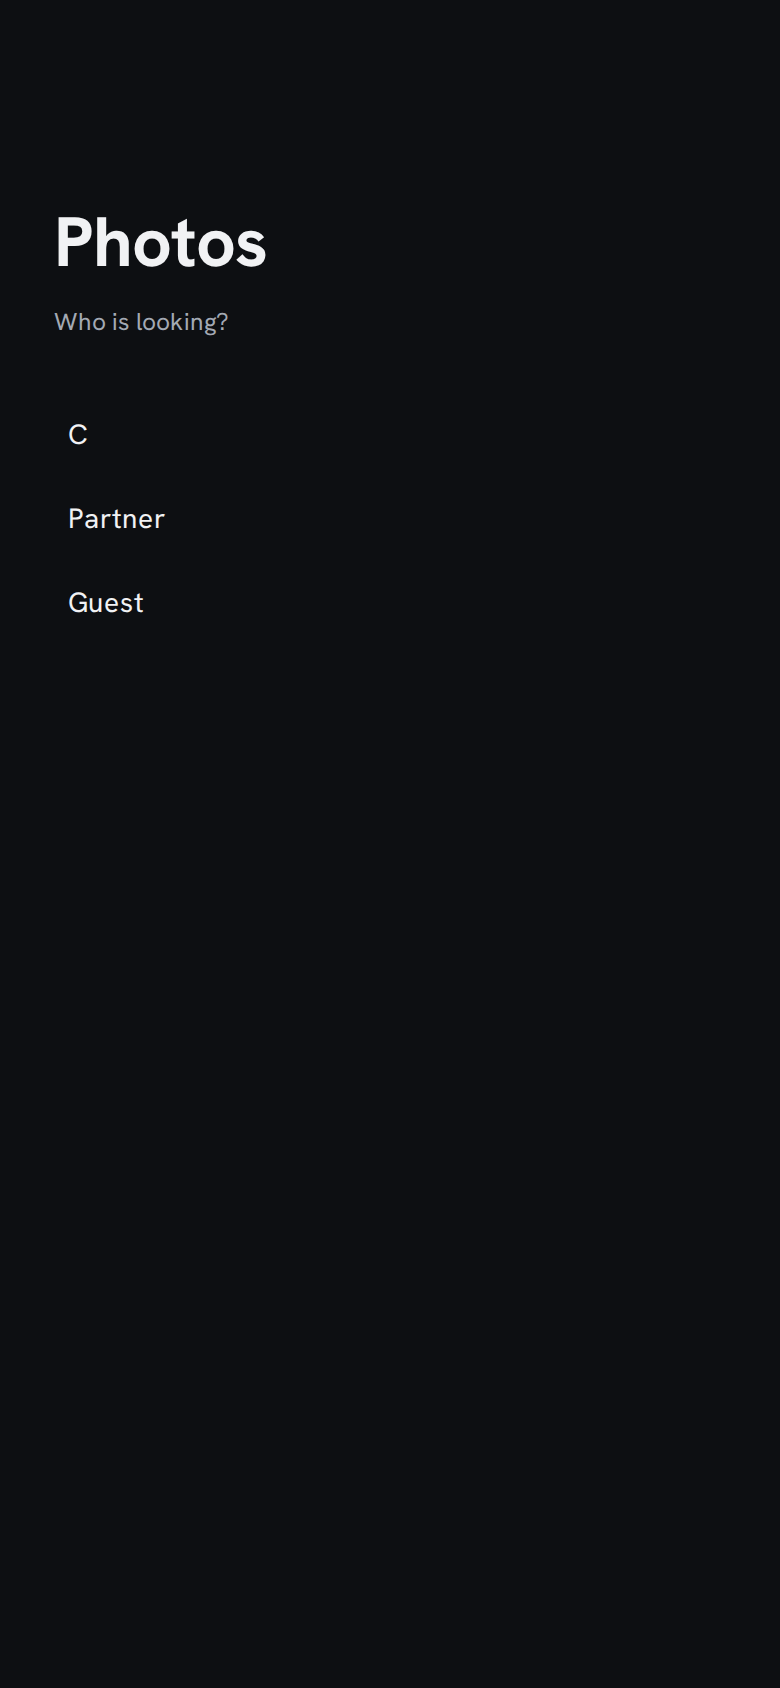
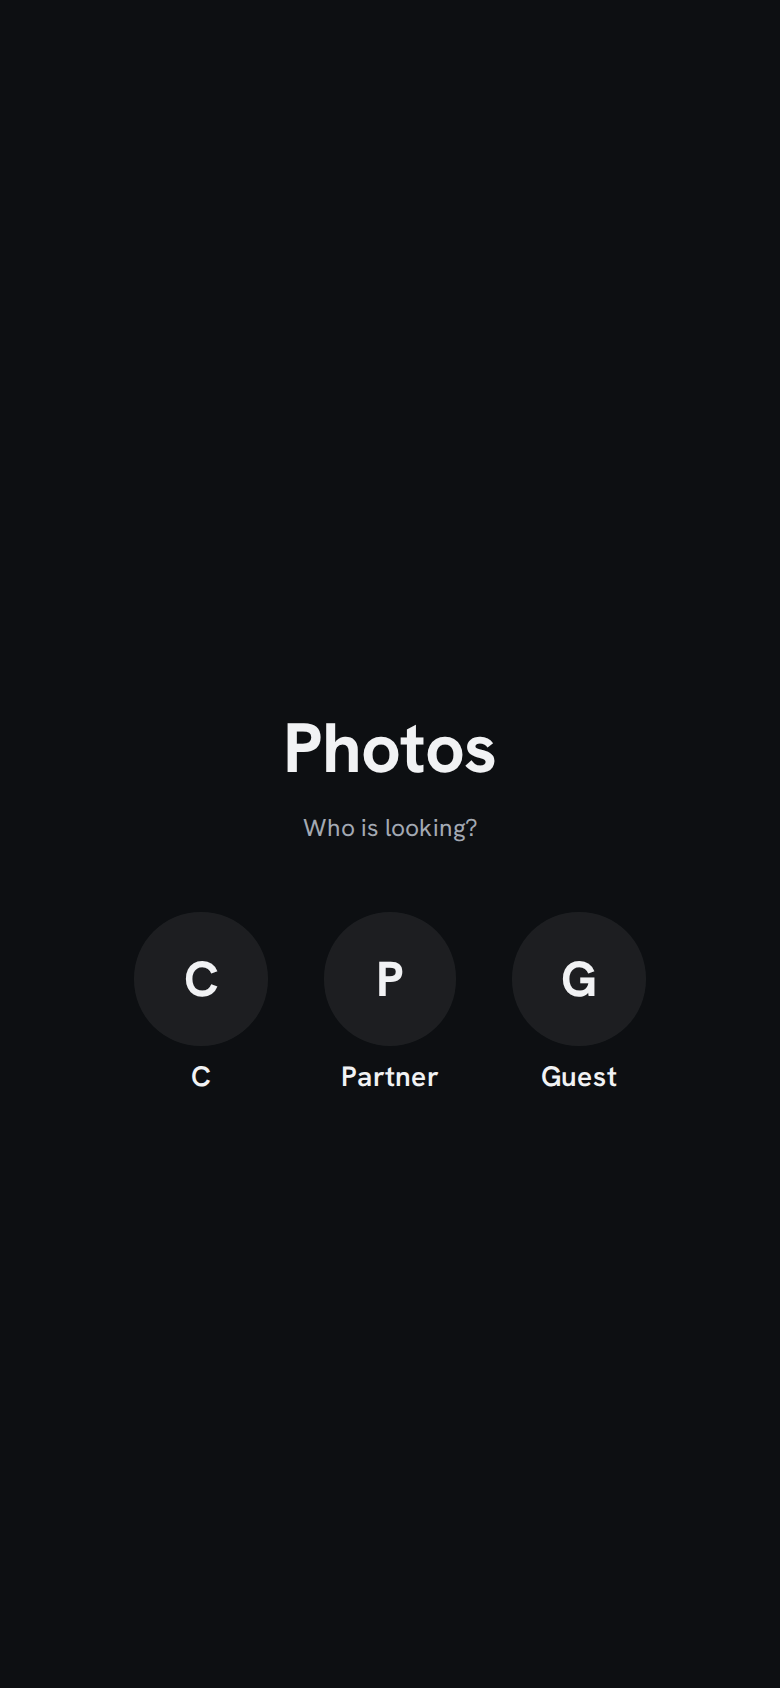
feat(ui): sign in with a number pad on a phone
The PIN was typed into a small text box. Now:

- The PIN shows as four dots. The field is still there behind them, for a
  keyboard, a screen reader and the tests; it is not drawn.
- A touch screen gets a pad of round keys (1 to 9, then 0 with Delete to its
  right) in the middle of the screen, and no system keyboard over it. The
  fourth digit signs in; Delete takes the last one back; a wrong PIN empties
  the dots, which shake once, and the reason is said as before.
- A laptop has no pad: it types, and the dots carry the focus ring.
- Who is looking: a round badge with each person's initial, the name under it.

Part of #10.

diff --git a/web/src/routes/login/+page.svelte b/web/src/routes/login/+page.svelte
@@ -2,9 +2,11 @@
 	import { goto } from '$app/navigation';
 	import { page } from '$app/state';
 	import { onMount } from 'svelte';
-	import { isPin, type AccountName } from '$lib/api';
+	import { PIN_LENGTH, isPin, type AccountName } from '$lib/api';
 	import { api, session } from '$lib/app.svelte';
+	import PinPad from '$lib/components/PinPad.svelte';
 	import { errorMessage } from '$lib/format';
+	import { initialOf } from '$lib/nav';
 	import { PIN_FIELD } from '$lib/pin';
 
 	let accounts = $state<AccountName[]>([]);
@@ -13,6 +15,8 @@
 	let error = $state('');
 	let busy = $state(false);
 	let field = $state<HTMLInputElement>();
+	/** A touch screen taps its PIN on the pad, so the system keyboard stays away; a laptop types. */
+	const touch = typeof matchMedia === 'function' && matchMedia('(pointer: coarse)').matches;
 
 	onMount(async () => {
 		const state = await api.setupState().catch(() => null);
@@ -25,8 +29,10 @@
 		}
 	});
 
+	// A laptop types straight away. A touch screen has the pad, and a focused field would
+	// only draw a focus ring round the dots.
 	$effect(() => {
-		if (chosen) field?.focus();
+		if (chosen && !touch) field?.focus();
 	});
 
 	function choose(account: AccountName | null) {
@@ -49,6 +55,12 @@
 		}
 	}
 
+	/** The PIN so far, from the pad or the keyboard: the fourth digit signs in. */
+	function enter(next: string) {
+		pin = next;
+		if (isPin(pin)) void signIn();
+	}
+
 	function submit(event: SubmitEvent) {
 		event.preventDefault();
 		void signIn();
@@ -57,38 +69,49 @@
 
 <svelte:head><title>Sign in · Photos</title></svelte:head>
 
-<h1>Photos</h1>
-{#if chosen}
-	<p class="quiet lede">Hello {chosen.display_name}. Type your PIN.</p>
-	<form onsubmit={submit}>
-		<label>
-			PIN
-			<input
-				{...PIN_FIELD}
-				bind:value={pin}
-				bind:this={field}
-				oninput={() => isPin(pin) && signIn()}
-				autocomplete="off"
-				required
-			/>
-		</label>
-		{#if error}<p role="alert">{error}</p>{/if}
-		<div class="actions">
-			<button class="primary" type="submit" disabled={busy || !isPin(pin)}>Sign in</button>
+<div class="door" class:touch>
+	<h1>Photos</h1>
+	{#if chosen}
+		<p class="quiet lede">Hello {chosen.display_name}. {touch ? 'Enter' : 'Type'} your PIN.</p>
+		<form onsubmit={submit}>
+			<!-- The field is still there for a keyboard and a screen reader; what shows is its dots. -->
+			<label class="code">
+				<span class="visually-hidden">PIN</span>
+				<input
+					class="visually-hidden"
+					{...PIN_FIELD}
+					inputmode={touch ? 'none' : 'numeric'}
+					bind:value={pin}
+					bind:this={field}
+					oninput={() => enter(pin)}
+					autocomplete="off"
+					required
+				/>
+				<span class="dots" class:shake={!!error} aria-hidden="true">
+					{#each { length: PIN_LENGTH }, place (place)}<i class:on={place < pin.length}></i>{/each}
+				</span>
+			</label>
+			{#if error}<p role="alert">{error}</p>{/if}
+			{#if touch}<PinPad value={pin} disabled={busy} onchange={enter} />{/if}
 			{#if accounts.length > 1}
-				<button type="button" onclick={() => choose(null)}>Someone else</button>
+				<button type="button" class="other" onclick={() => choose(null)}>Someone else</button>
 			{/if}
-		</div>
-	</form>
-{:else}
-	<p class="quiet lede">Who is looking?</p>
-	{#if error}<p role="alert">{error}</p>{/if}
-	<ul>
-		{#each accounts as account (account.username)}
-			<li><button type="button" onclick={() => choose(account)}>{account.display_name}</button></li>
-		{/each}
-	</ul>
-{/if}
+		</form>
+	{:else}
+		<p class="quiet lede">Who is looking?</p>
+		{#if error}<p role="alert">{error}</p>{/if}
+		<ul>
+			{#each accounts as account (account.username)}
+				<li>
+					<button type="button" onclick={() => choose(account)}>
+						<span class="badge" aria-hidden="true">{initialOf(account.display_name)}</span>
+						{account.display_name}
+					</button>
+				</li>
+			{/each}
+		</ul>
+	{/if}
+</div>
 
 <style>
 	/* The same wordmark as the top bar: the front door of the album. */
@@ -104,46 +127,128 @@
 	}
 	form {
 		display: grid;
-		gap: var(--s-1);
+		justify-items: start;
+		gap: var(--s-5);
 		margin-top: var(--s-6);
 	}
-	label {
-		display: grid;
-		gap: var(--s-1);
-		margin-bottom: var(--s-3);
-		font-size: var(--fs-12);
-		font-weight: 500;
+	/* The PIN shows as four dots; the field behind them takes the typing. */
+	.code {
+		display: block;
+		cursor: text;
 	}
-	label input {
-		font-size: var(--fs-16);
-		font-weight: 400;
-		color: var(--ink);
-		max-width: 8rem;
-		letter-spacing: 0.3em;
+	.code input {
+		padding: 0;
+		border: 0;
+		min-height: 0;
 	}
-	button {
-		min-height: 2.5rem;
-	}
-	.actions {
+	.dots {
 		display: flex;
-		gap: var(--s-3);
-		margin-top: var(--s-3);
+		gap: var(--s-4);
+		padding: var(--s-2);
+		border-radius: var(--r-pill);
 	}
+	.dots i {
+		width: var(--s-3);
+		height: var(--s-3);
+		box-sizing: border-box;
+		border: 1.5px solid var(--ink-2);
+		border-radius: 50%;
+		transition:
+			background-color var(--motion) var(--ease),
+			border-color var(--motion) var(--ease);
+	}
+	.dots i.on {
+		background: var(--ink);
+		border-color: var(--ink);
+	}
+	.code:has(input:focus-visible) .dots {
+		outline: 2px solid var(--accent);
+		outline-offset: 2px;
+	}
+	/* A wrong PIN: the dots shake their head once. */
+	.dots.shake {
+		animation: shake var(--motion-sheet) var(--ease);
+	}
+	@keyframes shake {
+		25% {
+			translate: calc(-1 * var(--s-2)) 0;
+		}
+		75% {
+			translate: var(--s-2) 0;
+		}
+	}
+	.other {
+		color: var(--ink-2);
+		min-height: var(--target);
+		margin-left: calc(-1 * var(--s-2));
+	}
+	/* Who is looking: a round badge with the initial for each person, the name under it. */
 	ul {
 		list-style: none;
 		padding: 0;
 		margin: var(--s-6) 0 0;
-		display: grid;
-		gap: var(--s-2);
-		justify-items: start;
+		display: flex;
+		flex-wrap: wrap;
+		gap: var(--s-5);
 	}
 	li button {
+		display: grid;
+		justify-items: center;
+		gap: var(--s-2);
+		padding: var(--s-1);
 		font-size: var(--fs-16);
+		font-weight: 600;
+		border-radius: var(--r-1);
+	}
+	.badge {
+		display: grid;
+		place-items: center;
+		width: 4.75rem;
+		height: 4.75rem;
+		border-radius: 50%;
+		background: var(--tint);
+		font-family: var(--font-title);
+		font-size: var(--fs-28);
+		font-weight: var(--title-weight);
+		transition: scale var(--motion) var(--ease);
+	}
+	li button:active .badge {
+		scale: 0.95;
+	}
+	@media (hover: hover) {
+		li button:hover {
+			background: none;
+		}
+		li button:hover .badge {
+			background: color-mix(in oklab, var(--ink) 14%, transparent);
+		}
+	}
+	/* A touch screen: everything sits on the middle line, over the pad. */
+	.touch {
+		text-align: center;
+		/* in the middle of the screen, where the thumb is; the page's own padding is taken off */
+		display: grid;
+		align-content: center;
+		min-height: calc(100dvh - max(12vh, var(--s-7)) - var(--s-7));
+	}
+	.touch form {
+		justify-items: center;
+	}
+	.touch ul {
+		justify-content: center;
+	}
+	.touch .other {
+		margin-left: 0;
 	}
 	p[role='alert'] {
 		color: var(--ink);
-		margin: 0 0 var(--s-2);
+		margin: 0;
 		padding-left: var(--s-3);
 		border-left: 2px solid var(--ink);
+	}
+	.touch p[role='alert'] {
+		padding-left: 0;
+		border-left: 0;
+		font-weight: 600;
 	}
 </style>

diff --git a/web/src/lib/components/PinPad.svelte b/web/src/lib/components/PinPad.svelte
@@ -1,0 +1,67 @@
+<script lang="ts">
+	import { PAD_KEYS, pressKey } from '$lib/pin';
+
+	/** The number pad of the sign-in screen: every press hands back the PIN so far. */
+	type Props = { value: string; disabled?: boolean; onchange: (pin: string) => void };
+	let { value, disabled = false, onchange }: Props = $props();
+</script>
+
+<div class="pad" role="group" aria-label="Number pad">
+	{#each PAD_KEYS as key, place (place)}
+		{#if key === null}
+			<span></span>
+		{:else if key === 'delete'}
+			<button
+				type="button"
+				class="word"
+				disabled={disabled || !value}
+				onclick={() => onchange(pressKey(value, key))}>Delete</button
+			>
+		{:else}
+			<button type="button" class="digit" {disabled} onclick={() => onchange(pressKey(value, key))}
+				>{key}</button
+			>
+		{/if}
+	{/each}
+</div>
+
+<style>
+	.pad {
+		--key: 4.75rem;
+		display: grid;
+		grid-template-columns: repeat(3, var(--key));
+		gap: var(--s-4) var(--s-5);
+		justify-content: center;
+		align-items: center;
+	}
+	/* A digit is a round key that answers the thumb at once. */
+	.digit {
+		width: var(--key);
+		height: var(--key);
+		padding: 0;
+		border-radius: 50%;
+		background: var(--tint);
+		font-family: var(--font-title);
+		font-size: var(--fs-28);
+		font-weight: 500;
+		transition:
+			background-color var(--motion) var(--ease),
+			scale var(--motion) var(--ease);
+	}
+	.digit:active:not(:disabled) {
+		background: color-mix(in oklab, var(--ink) 24%, transparent);
+		scale: 0.94;
+	}
+	.digit:disabled {
+		color: var(--ink);
+	}
+	.word {
+		min-height: var(--target);
+		padding: 0;
+		border-radius: var(--r-pill);
+		color: var(--ink-2);
+	}
+	.word:disabled {
+		color: var(--ink-3);
+	}
+</style>

diff --git a/web/e2e/screenshots.spec.ts b/web/e2e/screenshots.spec.ts
@@ -25,6 +25,7 @@ const DIR =
 /** The light set: the screens where the theme matters most. */
 const LIGHT = new Set([
 	'02-login',
+	'02b-login-pin',
 	'03-library',
 	'04-loupe',
 	'04b-loupe-info',
@@ -67,6 +68,12 @@ test('every screen', async ({ page }, info) => {
 	await resetMock();
 	await page.goto('/login');
 	await shot(page, '02-login', p);
+	await page.getByRole('button', { name: 'Partner', exact: true }).click();
+	// two digits in: tapped on a phone's pad, typed on a laptop
+	if (isPhone(page))
+		for (const digit of '12') await page.getByRole('button', { name: digit }).tap();
+	else await page.getByLabel('PIN').fill('12');
+	await shot(page, '02b-login-pin', p);
 	await signIn(page);
 	await expect(page.locator('.tile img').first()).toBeVisible();
 	await shot(page, '03-library', p);

diff --git a/web/src/lib/pin.ts b/web/src/lib/pin.ts
@@ -7,3 +7,13 @@ export const PIN_FIELD = {
 	inputmode: 'numeric',
 	maxlength: PIN_LENGTH
 } as const;
+
+/** The keys of the sign-in pad, row by row as on a phone; null is the empty place left of 0. */
+export const PAD_KEYS = ['1', '2', '3', '4', '5', '6', '7', '8', '9', null, '0', 'delete'] as const;
+export type PadKey = Exclude<(typeof PAD_KEYS)[number], null>;
+
+/** The PIN after one press: a digit joins the end (four at most), Delete takes the last back. */
+export function pressKey(pin: string, key: PadKey): string {
+	if (key === 'delete') return pin.slice(0, -1);
+	return pin.length < PIN_LENGTH ? pin + key : pin;
+}

diff --git a/docs/DESIGN_PRINCIPLES.md b/docs/DESIGN_PRINCIPLES.md
@@ -162,6 +162,11 @@ case** — no uppercase tracking. A count beside a title is set in the data face
   row holds eight; its heading, with a small arrowhead, opens the whole of it. On a phone the
   strip runs off the side and scrolls; on a laptop it wraps. A row with nothing in it says in
   one quiet line what will be there.
+- **Sign-in**: who is looking is a row of round badges with each person's initial, the name
+  under it. The PIN shows as four dots, never as a text box. A touch screen gets a number pad
+  of round keys (1 to 9, then 0 with the word Delete to its right), set in the middle of the
+  screen where the thumb is, and no system keyboard; a laptop has no pad and types. The
+  fourth digit signs in; a wrong PIN empties the dots, which shake once, and says why.
 - **Empty states** (`.empty-state`): one title-face sentence saying what is (not) here, then a
   plain sentence saying what to do, with a link where there is one.
 - **Section headers** in Settings sit in the left margin (book margin heads); Admin sections
